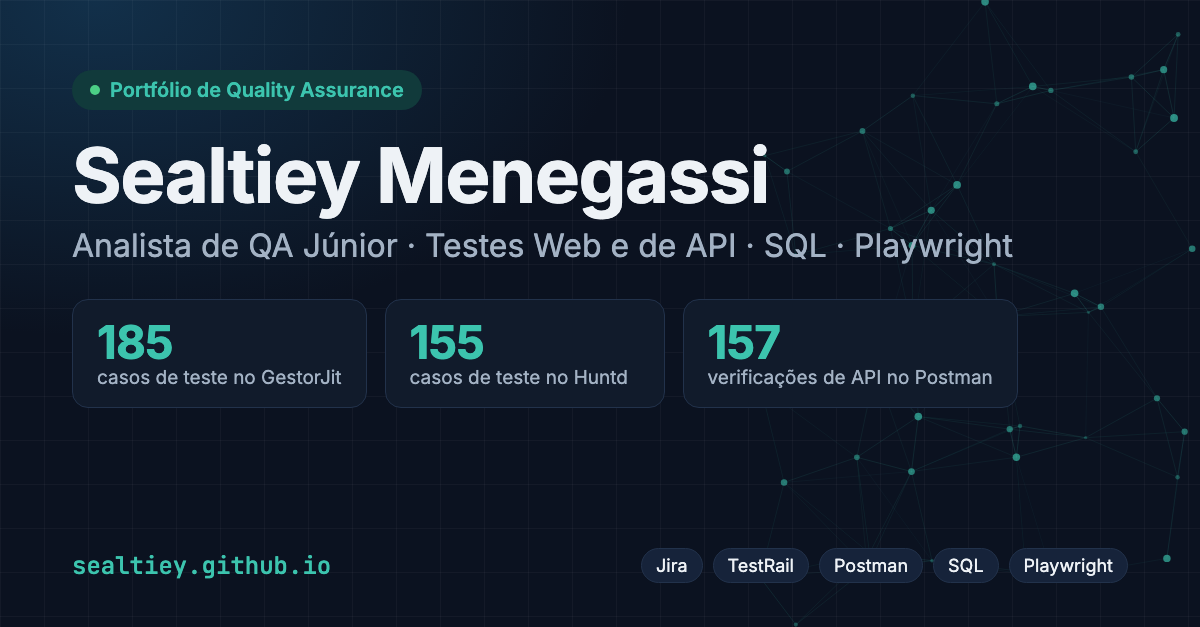
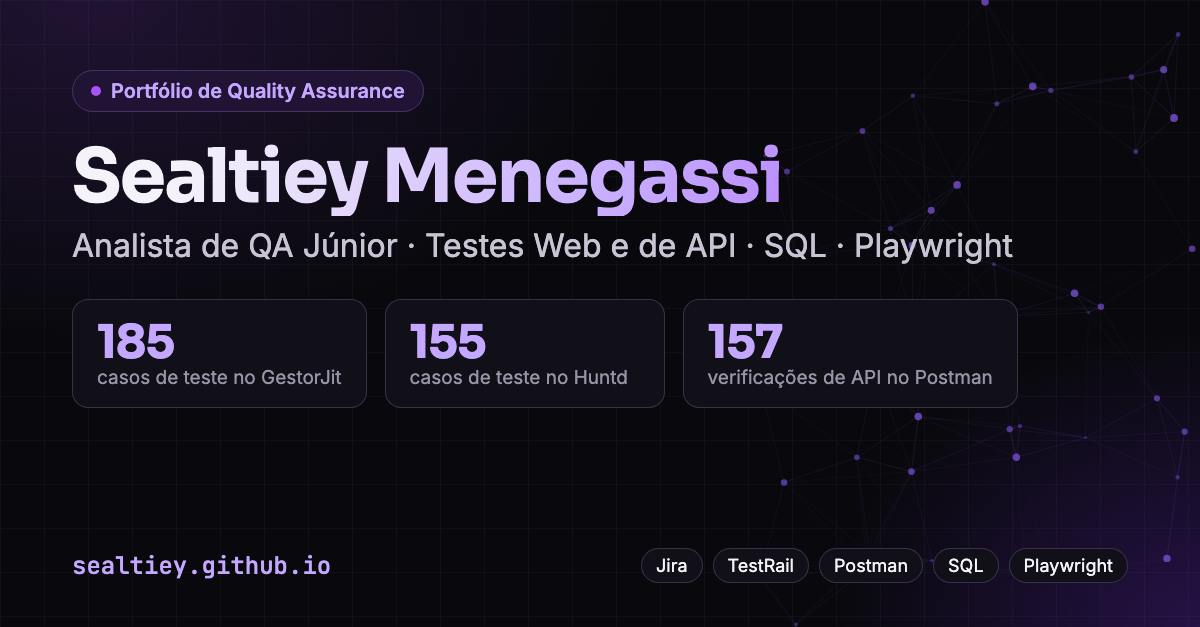
Nova identidade visual: paleta violeta (Mavrik), Sora nos títulos

diff --git a/index.html b/index.html
@@ -9,7 +9,7 @@
 <meta property="og:title" content="Sealtiey Menegassi · Analista de QA Júnior">
 <meta property="og:description" content="Portfólio de QA: testes em um sistema real (GestorJit, 185 casos), estudo de caso do Huntd (155 casos), testes de API no Postman (157 verificações), bugs e SQL.">
 <meta property="og:url" content="https://sealtiey.github.io/">
-<meta property="og:image" content="https://sealtiey.github.io/assets/og-cover-v3.png">
+<meta property="og:image" content="https://sealtiey.github.io/assets/og-cover-v4.png">
 <meta property="og:image:width" content="1200">
 <meta property="og:image:height" content="627">
 <meta property="og:image:alt" content="Portfólio de QA de Sealtiey Menegassi: 185 casos de teste no GestorJit, 155 no Huntd e 157 verificações de API">
@@ -32,17 +32,19 @@
 </script>
 <link rel="preconnect" href="https://fonts.googleapis.com">
 <link rel="preconnect" href="https://fonts.gstatic.com" crossorigin>
-<link href="https://fonts.googleapis.com/css2?family=Inter:wght@400;500;600;700&family=JetBrains+Mono:wght@400;500&display=swap" rel="stylesheet">
+<link href="https://fonts.googleapis.com/css2?family=Sora:wght@500;600;700&family=Inter:wght@400;500;600;700&family=JetBrains+Mono:wght@400;500&display=swap" rel="stylesheet">
 <style>
 :root{
   color-scheme:dark;
-  --bg:#0b1220; --surface:#111b2b; --surface-2:#16233a; --text:#eef2f6; --muted:#a3b2c4;
-  --border:#22324b; --accent:#3cc4ae; --accent-soft:#113a3b; --pass:#4ccf86; --fail:#ff7a70; --warn:#f0b54d;
-  --shadow:none; --c-pass:#26ab95; --c-fail:#e8574d;
+  --bg:#09090D; --surface:#111018; --surface-2:#17151F; --text:#F5F3FA; --muted:#C9C4D4; --faint:#9993A6;
+  --border:rgba(196,167,255,.10); --border-strong:rgba(196,167,255,.22);
+  --accent:#C4A7FF; --accent-strong:#8B5CF6; --accent-neon:#A855F7; --accent-soft:#201333;
+  --pass:#4ADE80; --fail:#F87171; --warn:#F0B54D;
+  --shadow:none; --c-pass:#8B5CF6; --c-fail:#F87171;
 }
 *{box-sizing:border-box}
 html{scroll-behavior:smooth}
-body{margin:0;background:radial-gradient(ellipse 900px 520px at 12% 0%,#12304a 0%,rgba(18,48,74,0) 70%) no-repeat,var(--bg);color:var(--text);font:16px/1.6 Inter,system-ui,-apple-system,sans-serif;-webkit-font-smoothing:antialiased}
+body{margin:0;background:radial-gradient(ellipse 900px 520px at 12% 0%,#201333 0%,rgba(32,19,51,0) 70%) no-repeat,var(--bg);color:var(--text);font:16px/1.6 Inter,system-ui,-apple-system,sans-serif;-webkit-font-smoothing:antialiased}
 a{color:var(--accent)}
 .wrap{max-width:1040px;margin:0 auto;padding:0 16px}
 code,.mono{font-family:"JetBrains Mono",ui-monospace,monospace;font-size:.88em}
@@ -67,7 +69,11 @@ h1{font-size:clamp(2.1rem,5vw,3.3rem);line-height:1.1;margin:18px 0 12px;letter-
 .hero p.lead{font-size:1.08rem;max-width:660px;margin:0 0 28px}
 .btns{display:flex;flex-wrap:wrap;gap:12px}
 .btn{display:inline-block;padding:11px 18px;border-radius:10px;font-weight:600;text-decoration:none;border:1px solid var(--border);color:var(--text);background:var(--surface)}
-.btn.primary{background:var(--accent);border-color:var(--accent);color:#0b1220}
+.btn.primary{background:linear-gradient(135deg,#9D6BFF 0%,#7C3AED 100%);border-color:transparent;color:#fff}
+.btn:hover{border-color:var(--border-strong)}
+h1,h2,h3,nav .brand,.stat strong{font-family:Sora,Inter,system-ui,sans-serif}
+.hero h1{background:linear-gradient(100deg,#F5F3FA 10%,#C4A7FF 55%,#A855F7 100%);-webkit-background-clip:text;background-clip:text;color:transparent}
+::selection{background:#8B5CF6;color:#fff}
 
 /* sections */
 section{padding:56px 0;border-top:1px solid var(--border)}
@@ -173,7 +179,7 @@ footer{padding:28px 0 40px;color:var(--muted);font-size:.85rem;text-align:center
 
 .nav-cv{color:var(--accent)!important;font-weight:600}
 .certs li a{display:flex;justify-content:space-between;gap:12px;width:100%;color:var(--text);text-decoration:none}
-.certs li:has(a):hover{border-color:var(--accent)}
+.certs li:has(a):hover{border-color:var(--border-strong)}
 .certs li a:hover .cert-org{color:var(--accent)}
 .cert-org{color:var(--muted);white-space:nowrap}
 .tc-list{display:grid;gap:12px;grid-template-columns:repeat(auto-fit,minmax(280px,1fr))}
@@ -205,7 +211,7 @@ details.more-certs .certs{margin-top:10px}
 @media (min-width:960px){.samples{grid-template-columns:1fr 1fr;align-items:start}.samples>.card{grid-column:1/-1}}
 
 .hero-grid{display:grid;grid-template-columns:1fr auto;gap:40px;align-items:center}
-.avatar{width:220px;height:220px;border-radius:50%;object-fit:cover;border:4px solid var(--surface);box-shadow:0 0 0 2px var(--accent),var(--shadow)}
+.avatar{width:220px;height:220px;border-radius:50%;object-fit:cover;border:4px solid var(--surface);box-shadow:0 0 0 2px var(--accent-strong),var(--shadow)}
 @media (max-width:720px){.hero-grid{grid-template-columns:1fr;gap:20px}.avatar{order:-1;width:120px;height:120px}}
 
 main{position:relative}
@@ -770,12 +776,12 @@ pm.<span class="kw">test</span>("Assert response body is Forbidden", () => {
     var a=pts[i], b=pts[j], d=Math.hypot(a[0]-b[0],a[1]-b[1]);
     if(d<150){ var l=document.createElementNS(NS,'line');
       l.setAttribute('x1',a[0]);l.setAttribute('y1',a[1]);l.setAttribute('x2',b[0]);l.setAttribute('y2',b[1]);
-      l.setAttribute('stroke','rgba(60,196,174,'+((0.05+0.16*(1-d/150))*Math.min(fade(a),fade(b))).toFixed(3)+')');
+      l.setAttribute('stroke','rgba(139,92,246,'+((0.05+0.16*(1-d/150))*Math.min(fade(a),fade(b))).toFixed(3)+')');
       svg.appendChild(l); } }
   pts.forEach(function(p){ var f=fade(p), r=1.4+p[2]*2.4, c;
-    if(p[2]>0.85){ c=document.createElementNS(NS,'circle'); c.setAttribute('cx',p[0]);c.setAttribute('cy',p[1]);c.setAttribute('r',r*4);c.setAttribute('fill','rgba(60,196,174,'+(0.10*f).toFixed(3)+')'); svg.appendChild(c); }
+    if(p[2]>0.85){ c=document.createElementNS(NS,'circle'); c.setAttribute('cx',p[0]);c.setAttribute('cy',p[1]);c.setAttribute('r',r*4);c.setAttribute('fill','rgba(139,92,246,'+(0.10*f).toFixed(3)+')'); svg.appendChild(c); }
     c=document.createElementNS(NS,'circle'); c.setAttribute('cx',p[0]);c.setAttribute('cy',p[1]);c.setAttribute('r',r);
-    c.setAttribute('fill', p[2]>0.85?'rgba(140,240,222,'+(0.8*f).toFixed(3)+')':'rgba(60,196,174,'+(0.45*f).toFixed(3)+')'); svg.appendChild(c); });
+    c.setAttribute('fill', p[2]>0.85?'rgba(196,167,255,'+(0.8*f).toFixed(3)+')':'rgba(139,92,246,'+(0.45*f).toFixed(3)+')'); svg.appendChild(c); });
 })();
 </script>
 </body>
